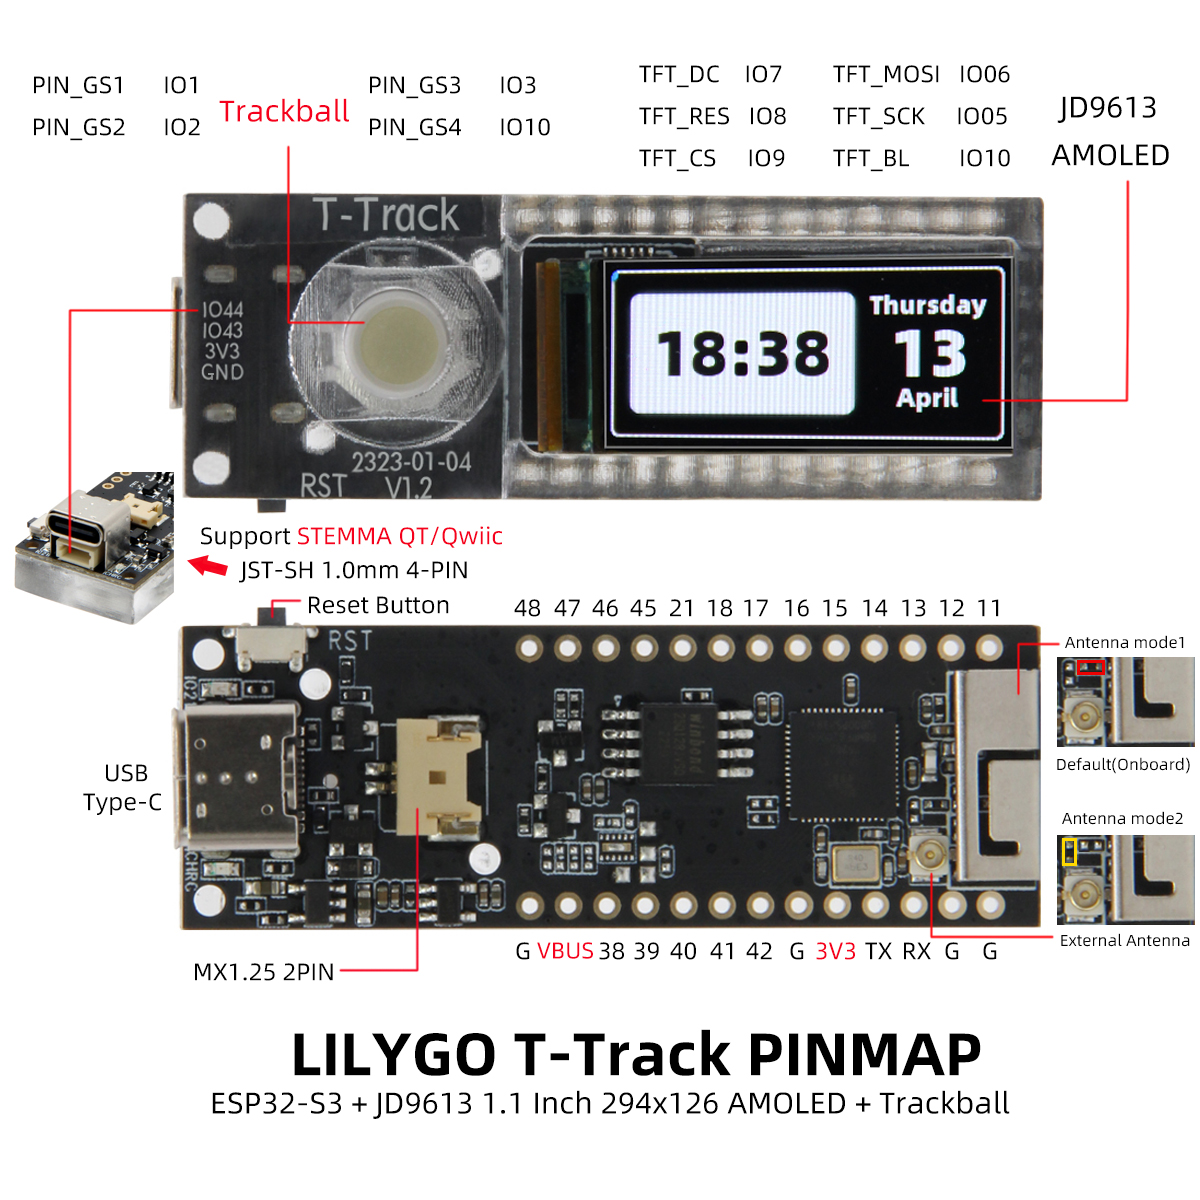
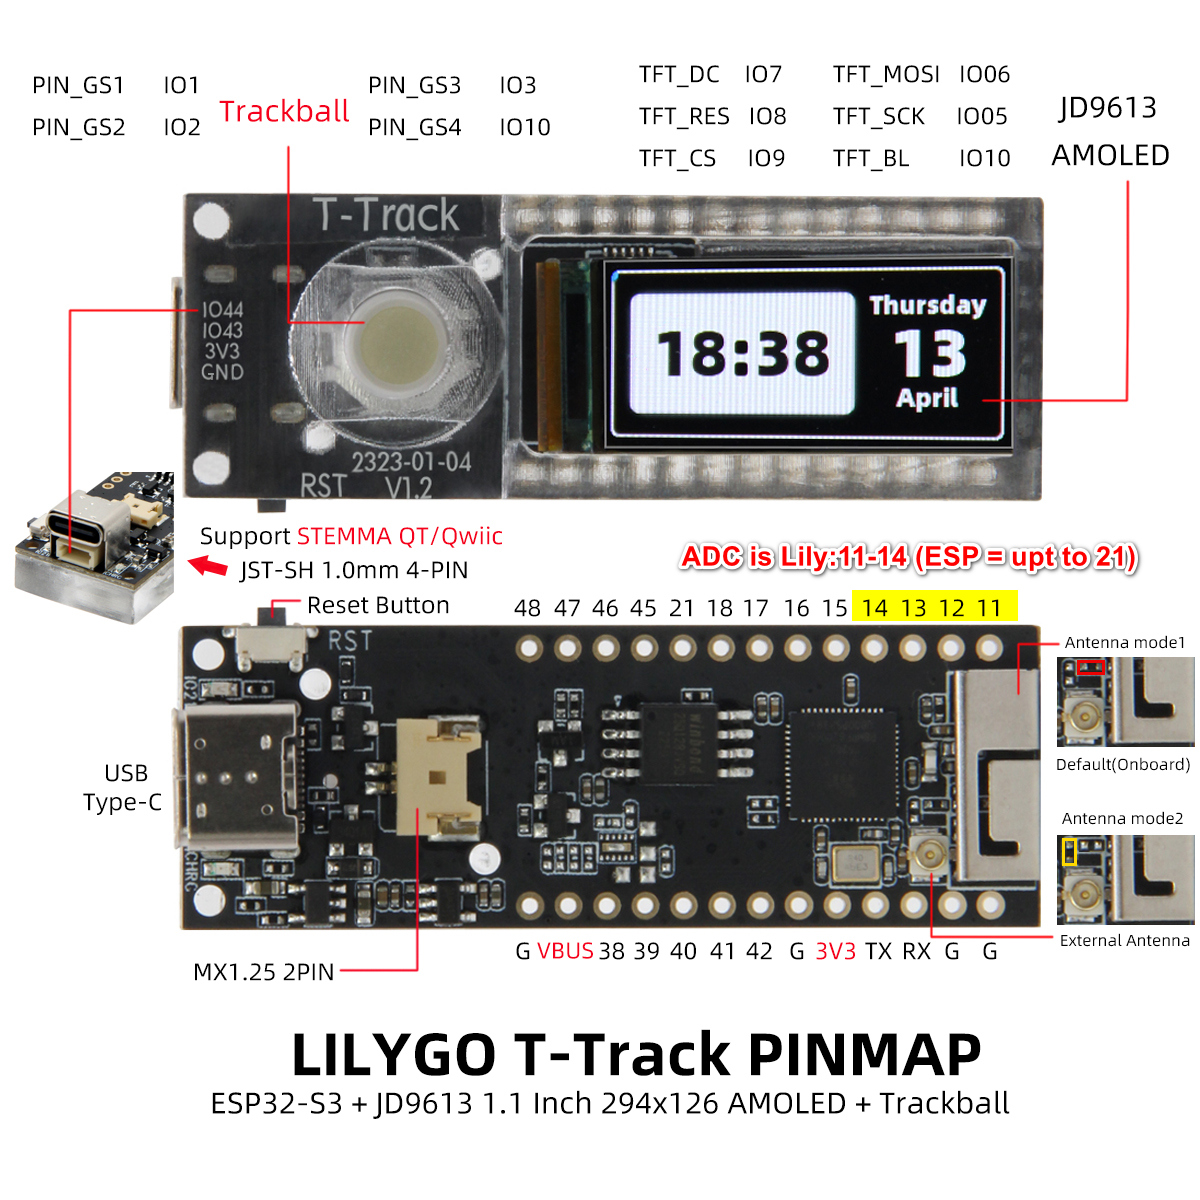
add adc pins note for ttrack

Changed region(s): [[0.555, 0.4317, 0.9558, 0.5242]]

diff --git a/LILY-TTRACK/samples/resistor_measure.py b/LILY-TTRACK/samples/resistor_measure.py
@@ -1,0 +1,37 @@
+from machine import ADC, Pin
+import time
+
+# voltage divider scheme: 3v3 -> 10kR ; 10kR + R2 -> ADC pin ; Gnd - R2 
+# Configure ADC with attenuation
+adc = ADC(Pin(13), atten=ADC.ATTN_11DB)
+# Set 12-bit resolution (0-4095)
+adc.width(ADC.WIDTH_12BIT)
+
+R_REF = 10000  # 10k ohm reference resistor
+V_SUPPLY = 3.3  # ESP32-S3 typically uses 3.3V
+
+def measure_resistance():
+    # Take multiple readings and average them
+    samples = 10
+    adc_value = 0
+    for _ in range(samples):
+        adc_value += adc.read()
+        time.sleep(0.01)
+    adc_value = adc_value / samples
+    
+    # Convert to voltage (12-bit ADC = 4096 steps)
+    voltage = (adc_value / 4095) * V_SUPPLY
+    print(f"ADC value: {adc_value:.0f}, Voltage: {voltage:.3f}V")
+    
+    if voltage >= V_SUPPLY:
+        return 0
+    if voltage <= 0:
+        return float('inf')
+    
+    r_unknown = R_REF * (voltage / (V_SUPPLY - voltage))
+    return r_unknown
+
+while True:
+    resistance = measure_resistance()
+    print(f"Measured resistance: {resistance:.2f} ohms")
+    time.sleep(1)

diff --git a/M5Stick-Raw/readme.md b/M5Stick-Raw/readme.md
@@ -13,3 +13,7 @@ import st7789
 i2c = machine.I2C(0, sda=machine.Pin(21), scl=machine.Pin(22), freq=400000)
 pmu = axp192.AXP192(i2c, board=axp192.M5StickCPlus)
 ```
+
+
+todo: get expanded driver here:
+https://github.com/russhughes/st7789_mpy

diff --git a/SENS-HCHO-WSP2110/readme.md b/SENS-HCHO-WSP2110/readme.md
@@ -1,0 +1,2 @@
+source:
+https://github.com/SeeedDocument/Grove-HCHO_Sensor/blob/master/Grove-HCHO_Sensor.md
